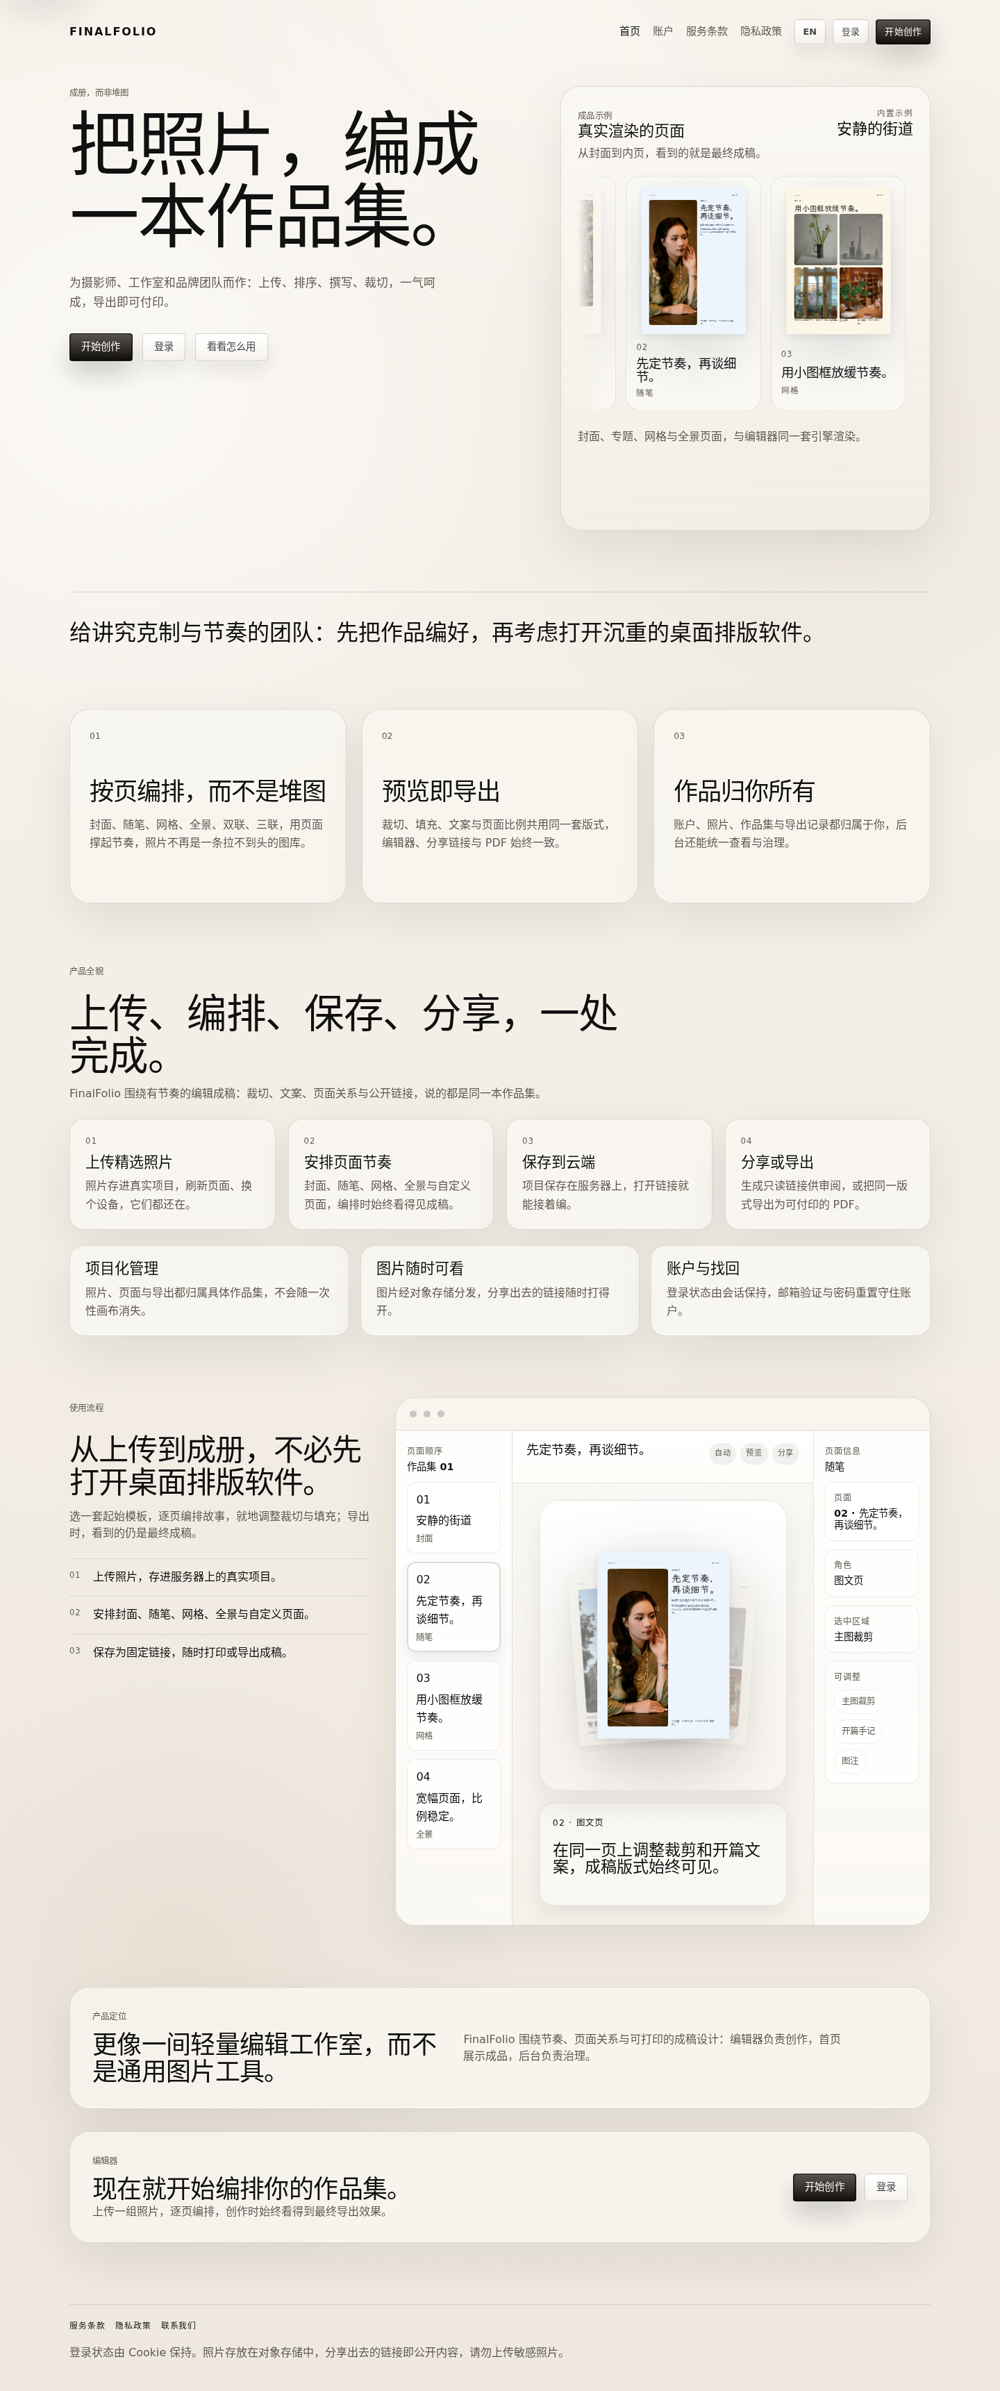
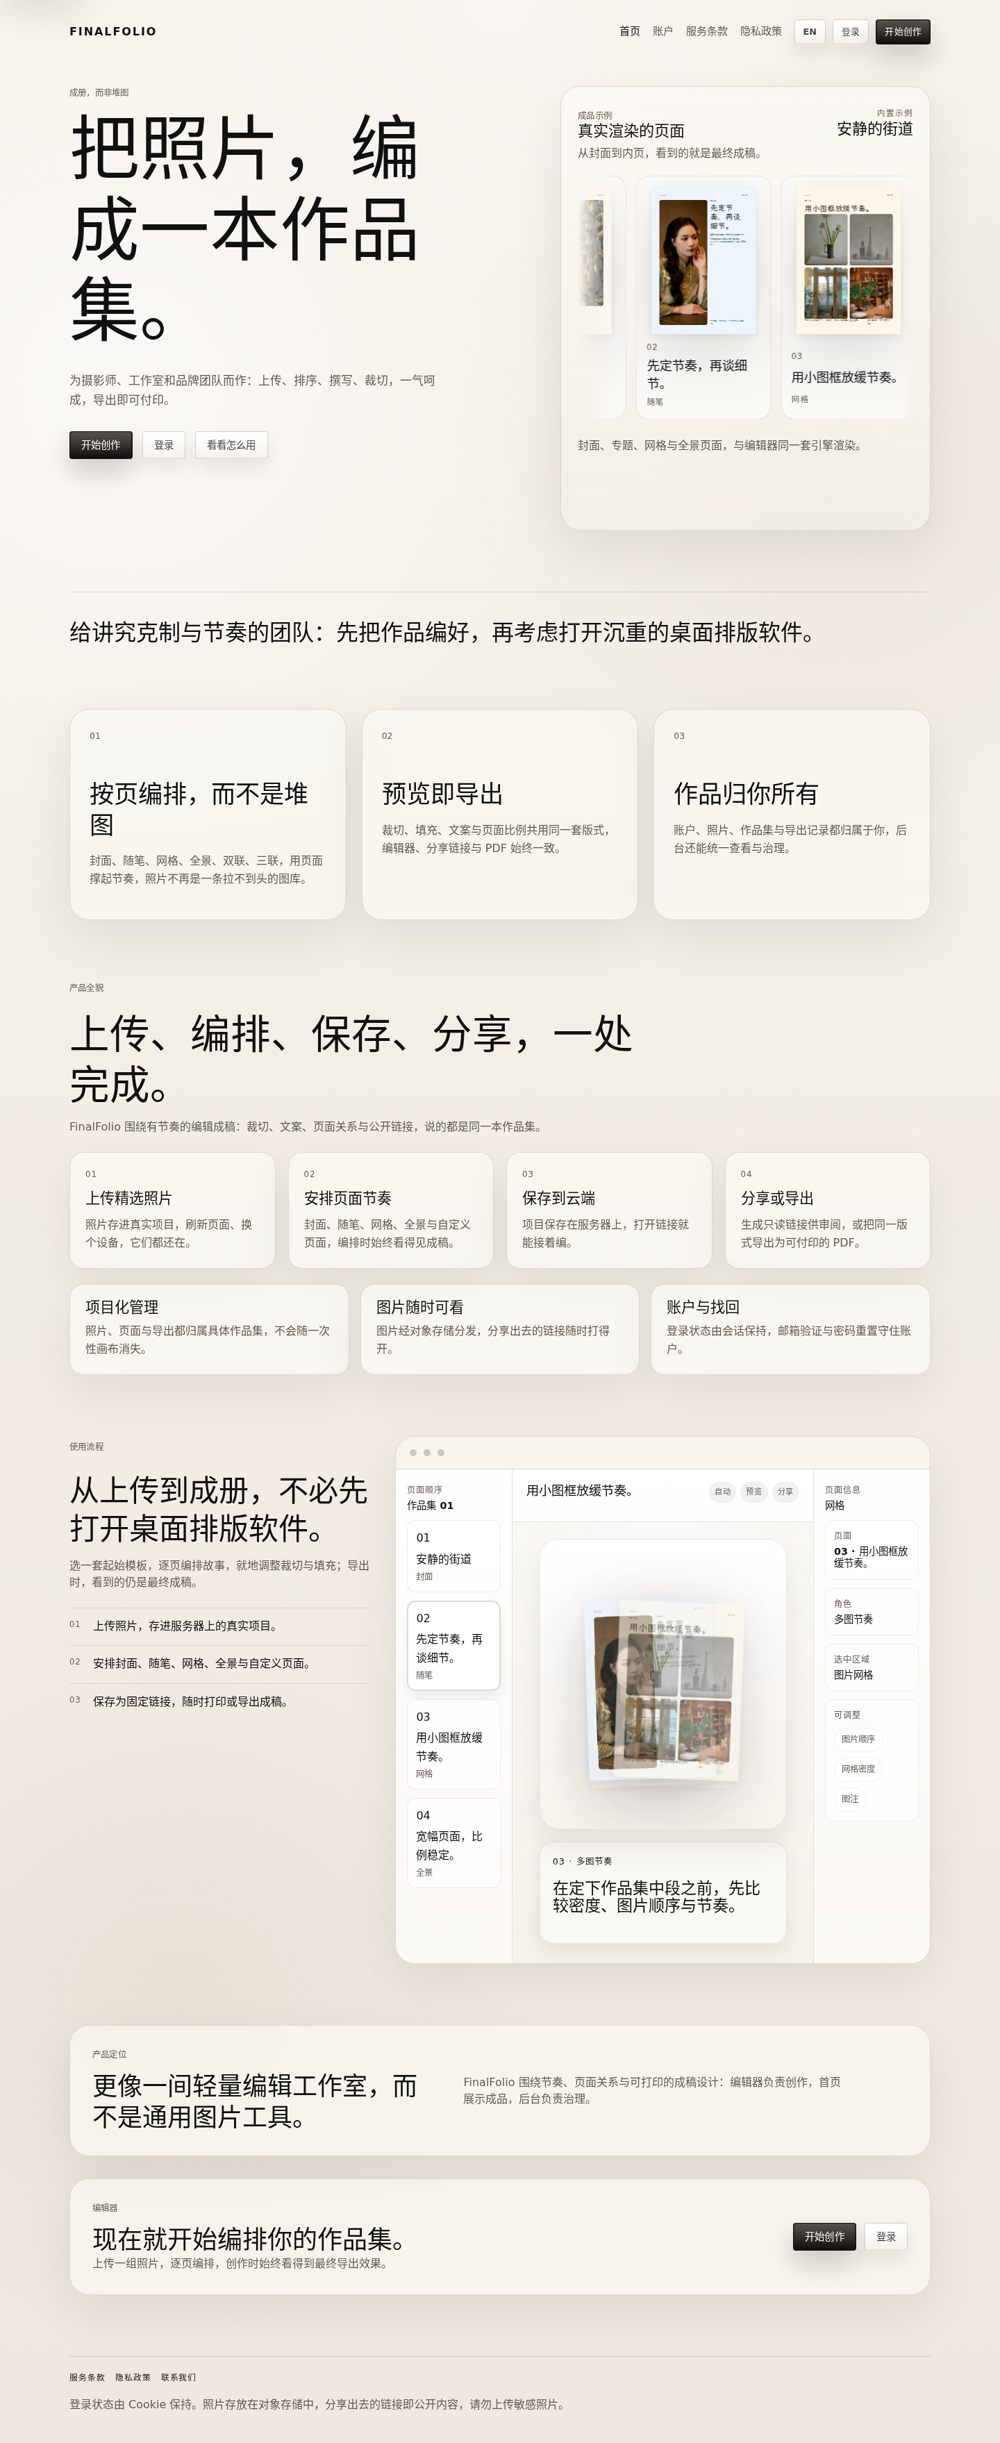
fix(type): open CJK display leading and add the issue register
Chinese headings were written with the Latin leading (1.04–1.08). Once a
headline wrapped, the two lines nearly touched. Headings now use 1.26 and the
hero 1.18 when html[lang='zh-CN'] is active; Latin keeps its tight rhythm.
The hero also switches from the 9.4ch Latin measure to a 6.05em CJK measure:
`ch` is a digit width, so the Chinese headline previously wrapped into three
ragged lines ("…编 / 成一本作品 / 集。"). It now breaks into the intended two.

Adds docs/issue-register.md: the single entry point for every known issue —
the 36 findings from the 2026-11-14 review (B1–B6, S1–S9, M1–M15, L1–L6),
the 14 from the 2026-11-17 audit, the 8 user-reported items, the 12 third-round
self-audit findings, and 12 known boundaries/open items with their real status.

Verification: 41/41 Playwright, validate:mvp, tsc; CJK sweep 390/768/1440
light/dark: 0 overflow, 0 console errors, 0 unrevealed sections.

diff --git a/src/styles.css b/src/styles.css
@@ -588,8 +588,8 @@ a:focus-visible {
 .hero-proof__grid {
   position: relative;
   overflow: hidden;
-  -webkit-mask-image: linear-gradient(90deg, transparent 0, #000 52px, #000 calc(100% - 18px), transparent 100%);
-  mask-image: linear-gradient(90deg, transparent 0, #000 52px, #000 calc(100% - 18px), transparent 100%);
+  -webkit-mask-image: linear-gradient(90deg, transparent 0, #000 84px, #000 calc(100% - 22px), transparent 100%);
+  mask-image: linear-gradient(90deg, transparent 0, #000 84px, #000 calc(100% - 22px), transparent 100%);
 }
 
 
@@ -7251,8 +7251,42 @@ html:lang(zh) .magazine-page h2,
 html:lang(zh-CN) .magazine-page h2,
 :lang(zh) .magazine-page h2,
 :lang(zh-CN) .magazine-page h2 {
-  line-height: 1.18;
+  line-height: 1.22;
   letter-spacing: -0.01em;
+}
+
+/* CJK display type: Latin headings can sit at 1.04–1.08, but stacked Chinese
+   lines need air between them. Open the leading only when Chinese is active so
+   the Latin layout keeps its tight editorial rhythm. */
+html[lang='zh-CN'] .site-main h1,
+html[lang='zh-CN'] .site-main h2,
+html[lang='zh-CN'] .site-main h3 {
+  line-height: 1.26;
+  letter-spacing: 0;
+}
+
+html[lang='zh-CN'] .hero h1 {
+  /* 9.4ch is a Latin measure; Chinese glyphs are one em wide, so the same box
+     wrapped the headline into three ragged lines. Six characters per line
+     gives the intended two-line break. */
+  max-width: 6.05em;
+  line-height: 1.18;
+  letter-spacing: 0;
+}
+
+/* The folio preview keeps its own printed type scale. */
+html[lang='zh-CN'] .site-main .magazine-page h1,
+html[lang='zh-CN'] .site-main .magazine-page h2,
+html[lang='zh-CN'] .site-main .magazine-page h3 {
+  line-height: 1.22;
+}
+
+html[lang='zh-CN'] .product-brief-card strong,
+html[lang='zh-CN'] .hero-proof__caption strong,
+html[lang='zh-CN'] .browser-stage__toolbar strong,
+html[lang='zh-CN'] .browser-stage__canvas-copy strong,
+html[lang='zh-CN'] .admin-stat-card strong {
+  line-height: 1.4;
 }
 
 @media (max-width: 980px) {

diff --git a/docs/issue-register.md b/docs/issue-register.md
@@ -1,0 +1,133 @@
+# FinalFolio 已知问题登记表（Issue Register）
+
+最后更新：2026-11-19
+状态：`已修复` / `已缓解` / `待人工` / `已知边界`
+证据：提交、`docs/evidence/` 截图、`tests/e2e/` 用例、`validate:mvp` 断言。
+
+这张表是"目前已知的全部问题"的唯一入口。历史审查原文在
+`docs/review-2026-11-14.md`、`docs/audit-2026-11-17.md` 和
+`docs/remediation-report-2026-11-19.md`。
+
+## A. 首轮严格审查（2026-11-14，36 项）
+
+### A1. 阻塞上线（B1–B6）
+
+| ID | 问题 | 状态 |
+| --- | --- | --- |
+| B1 | 选中带照片页面后持续重渲染，主线程 99%、自动保存停摆 | 已修复 |
+| B2 | 访客本地照片上传后 16ms 被清理，刷新即丢 | 已修复 |
+| B3 | 保存进行中继续输入被旧副本覆盖，却显示 Saved | 已修复 |
+| B4 | 两个标签页同时编辑，后保存者静默覆盖 | 已修复（rev + 409 + 冲突提示） |
+| B5 | "Export PDF" 只打开打印对话框，不生成文件 | 已修复（pdf-lib 真实下载） |
+| B6 | 生产 SMTP 凭据明文入仓、可被 docker inspect 读取 | 已修复（部署环境变量）；**待人工轮换密码** |
+
+### A2. 严重（S1–S9）
+
+| ID | 问题 | 状态 |
+| --- | --- | --- |
+| S1 | 登录接口无频率限制/锁定 | 已修复（IP + 账号双维度） |
+| S2 | 会话 Cookie 缺 Secure、会话 ID 明文落盘、目录权限过宽 | 已修复 |
+| S3 | `/uploads/*` 永久公开，删除后仍可访问 | 已修复（未引用资源清理） |
+| S4 | 项目路由路径遍历（未净化 projectId） | 已修复 |
+| S5 | Hook 之前提前 return；全站无 ErrorBoundary | 已修复 |
+| S6 | 自动保存永不触发，状态文案掩盖保存状态 | 已修复 |
+| S7 | 应用模板包/切换模板丢内容，文案却称"已保留" | 已修复 |
+| S8 | 锁文件指向第三方 HTTP 镜像，1 critical / 11 high | 已修复（官方 registry，0 high） |
+| S9 | 生产运行未提交代码，无 CI | 已修复 |
+
+### A3. 中等（M1–M15）
+
+| ID | 问题 | 状态 |
+| --- | --- | --- |
+| M1 | 圆角上限前后端不一致 | 已修复 |
+| M2 | 未知路由整页空白，API 返回 HTML | 已修复 |
+| M3 | 匿名 `/api/exports` 可写任意事件 | 已修复（限流 + 截断 + 保留期） |
+| M4 | `/uploads` 404 泄露服务器绝对路径 | 已修复 |
+| M5 | 伪造图片返回 500 | 已修复（魔数校验） |
+| M6 | 活动日志被自动保存刷屏、标签错误 | 已修复 |
+| M7 | 关键操作缺少撤销/重做 | 已修复 |
+| M8 | 使用原生 `window.confirm` | 已修复（统一确认框） |
+| M9 | 标签与实际行为不一致 | 已修复 |
+| M10 | 按钮尺寸/字号多套并存 | 已修复（设计令牌） |
+| M11 | 移动端标签堆叠、编辑器首屏只有预览 | 已修复 |
+| M12 | 打印栈常驻渲染全部页面 | 已修复（按需挂载） |
+| M13 | 重复内置图片、16MB 中文字体、TTF/block | 已修复（去重、子集 WOFF2、swap） |
+| M14 | 缺少 H1、skip link、reduced-motion | 已修复 |
+| M15 | Playwright 路径错误、覆盖不足 | 已修复 |
+
+### A4. 低（L1–L6）
+
+| ID | 问题 | 状态 |
+| --- | --- | --- |
+| L1 | 重复基础函数 | 已处理（共享工具） |
+| L2 | 巨型组件与巨型样式表 | 已缓解（拆出 hooks/面板）；仍偏大 |
+| L3 | 未使用的 nginx 配置与死依赖 | 已清理 |
+| L4 | 重复响应头 | 已修复 |
+| L5 | 法律条款有中文版但界面只路由英文 | 已修复（语言切换） |
+| L6 | 时间格式随时区漂移 | 已修复（统一格式化） |
+
+## B. 第二轮审查（2026-11-17，14 项）
+
+| ID | 问题 | 状态 |
+| --- | --- | --- |
+| C1 | 排版选择器悬停模糊内容、动作覆盖 | 已修复（点选 + 三个显式动作） |
+| C2 | 空图框"上传照片"悬停换行、横移 | 已修复 |
+| C3 | 按钮默认 `white-space: normal` 导致换行 | 已修复 |
+| C4 | 页面条信息与动作混排 | 已修复（编号/版式/色点一行，动作单独一行） |
+| C5 | 图库面板重复大标题 | 已修复 |
+| C6 | 编辑器侧栏头部高度/内边距/间距不齐 | 已修复 |
+| C7 | 空图框没有直接上传入口 | 已修复 |
+| C8 | 自定义排版名称与图框标签未本地化 | 已修复 |
+| C9 | 动态文案残留英文（上传/恢复/模板/限额/进度/后台趋势） | 已修复 |
+| C10 | 公开阅读器分离根节点缺 LocaleProvider，整本空白 | 已修复 |
+| C11 | jQuery 版本重复 | 已修复（3.7.1） |
+| C12 | 后台与直接上传缺少冒烟用例 | 已修复 |
+| C13 | PDF 用例只验证"有页数" | 已修复（页数 + A4 几何） |
+| C14 | README/环境变量文档与实际部署不符 | 已修复 |
+
+## C. 用户点名的第二轮问题（2026-11-19，8 项）
+
+| ID | 问题 | 根因 | 状态 |
+| --- | --- | --- | --- |
+| U1 | 首页中文生硬、像机翻 | 英文源本身是内部说明，中文逐句直译 | 已修复（中英文源重写，线上复核无英文残留） |
+| U2 | 衬线/无衬线混用、圆角不统一 | UI 标签 41 处等宽字体；圆角 18 种散值 | 已修复（统一 `--font-ui` + 六档圆角令牌） |
+| U3 | "页面顺序"激活后右移 | `.is-active { transform: translateX(4px) }` | 已修复（`transform: none`，e2e 断言） |
+| U4 | 默认"封面"下"编辑排版"不可用 | 仅已保存的自定义排版可编辑 | 已修复（实测几何生成自定义副本，保留照片/文案） |
+| U5 | 排版卡片同时有两个气泡 | 原生 `title` + 自定义悬停预览 | 已修复（移除 `title`） |
+| U6 | "用作新项目"不是统一轻拟物按钮 | 用了危险色 `button--danger-ghost` | 已修复（`button--ghost`） |
+| U7 | 改字体后预览有时不变 | 导语/引题缺少字体角色类 | 已修复（所有文本节点带角色，e2e 断言即时生效） |
+| U8 | 收起画框会收起整个"页面内容" | 子区块复用了面板折叠按钮 | 已修复（`EditorSubsection`，父面板保持展开） |
+
+## D. 第三轮自查发现（2026-11-19，12 项）
+
+| ID | 问题 | 状态 |
+| --- | --- | --- |
+| R1 | 自定义排版把库里的排版名印在成品页 | 已修复（移除标签） |
+| R2 | 内置转自定义后文字溢出、导语被裁 | 已修复（容器查询单位 + 文本区实测） |
+| R3 | 草稿状态行重复同一句、动作消息混英文 | 已修复 |
+| R4 | 中文页脚声明仍是英文 | 已修复 |
+| R5 | 分享链接占位文案被截断 | 已修复（短句） |
+| R6 | 后台"错误情况"实际画的是全部事件数 | 已修复（改名 + 失败次数徽标） |
+| R7 | 账户/后台头图是内部术语 | 已修复 |
+| R8 | 滚动揭示在观察器失败时内容永久透明 | 已修复（1.2s 兜底、无 Observer 直接显示、打印/减少动效可见） |
+| R9 | 排版卡片名称被截成 "Editori… Split" | 已修复（两行 line-clamp + 词边界） |
+| R10 | 首页中文标题行距过窄（1.04–1.08） | 已修复（CJK 标题 1.26 / 主标题 1.18，6.05em 标题宽度） |
+| R11 | 首页轮播卡片边缘硬切 | 已缓解（边缘渐隐）；相邻卡片仍会露出一部分，属于轮播设计 |
+| R12 | 死 CSS（旧 project-bar、无内容伪元素、重复规则） | 已清理 |
+
+## E. 已知边界与待办（不阻塞上线）
+
+| ID | 事项 | 说明 |
+| --- | --- | --- |
+| O1 | SMTP 密码轮换 | 历史提交曾暴露，需运维在生产环境更换 |
+| O2 | URL 导入的 DNS rebinding TOCTOU | 已做 DNS 解析 + 逐跳复检；固定解析 IP 可进一步收口 |
+| O3 | 多文本区内置排版转自定义 | 正文/图注会并入同一文本区，属于自定义排版模型边界 |
+| O4 | 深色模式 | 不是产品特性；已验证深色系统偏好下不被反转 |
+| O5 | 无 lint/format gate | 建议 CI 加 ESLint + Prettier |
+| O6 | 字体子集覆盖 | WenKai 等子集覆盖常用字，生僻字回退系统字体 |
+| O7 | 历史内容语言 | 旧草稿/模板/项目名保留原文，仅系统文案与新页面本地化 |
+| O8 | `EditorPage.tsx` 与状态 hooks 仍偏大 | 建议继续拆分布局选择器、项目信息与舞台编辑 |
+| O9 | 演示图库缩略图水印被裁 | 种子占位图生成问题，不影响真实上传 |
+| O10 | 印厂折手/双面拼版 | 当前导出单页 PDF，装订预检只覆盖奇数页与内边距 |
+| O11 | 自定义排版存浏览器本地 | 跨设备同步需另做账户存储 |
+| O12 | 首页站点文案可由后台覆盖 | 生产当前无覆盖文件；若后台保存过旧文案，需要手动更新 |

diff --git a/docs/remediation-report-2026-11-19.md b/docs/remediation-report-2026-11-19.md
@@ -276,6 +276,7 @@
 - 控件高度：侧栏按钮/输入/下拉 36、独立字段 40、图标控件 24（第二轮复测通过）。
 - 圆角：`button 4 / panel 12 / subsection 8 / chip 4 / toggle 4`，无 3–32px 散值残留（50%、1–2px 缩略图、内容圆角除外）。
 - 字体：等宽仅 4 处（缩放值、AI 计时、页码、验证码）；UI 其余全部无衬线。
+- 中文行距：首页标题此前沿用拉丁行高（1.04–1.08），两行中文挤在一起。现在 `html[lang='zh-CN']` 下标题 1.26、主标题 1.18，并改用 6.05em 的标题宽度（`ch` 是拉丁数字宽度，中文按字宽计算），实测主标题仍为两行、无溢出。
 - 溢出：390/768/1440 × 浅色/深色 × 5 个路由，横向溢出 0，控制台错误 0。
 - 滚动揭示：全部 `[data-reveal]` 最终可见（隐藏数 0）。
 

diff --git a/docs/design-system.md b/docs/design-system.md
@@ -76,6 +76,10 @@ optical tweaks but new rules should land on the scale.
 - UI chrome (buttons, labels, tags, eyebrows, tables, hints) always uses
   `--font-ui`. Monospace is reserved for values where digit alignment matters:
   the zoom input, AI elapsed time, page numbers and the captcha code.
+- CJK display type needs more leading than Latin: `html[lang='zh-CN']`
+  headings use 1.26 (hero 1.18) while the Latin layout keeps 1.04–1.08.
+  A Chinese headline must not wrap at a Latin `ch` measure: the hero uses a
+  6.05em box so six characters fit per line; `ch` is a Latin digit width.
 - The editorial serif is only used inside `.magazine-page`. Every text node on
   a page must carry a role class so the four project fonts reach it:
   title, deck, caption (kickers and small labels), body.
